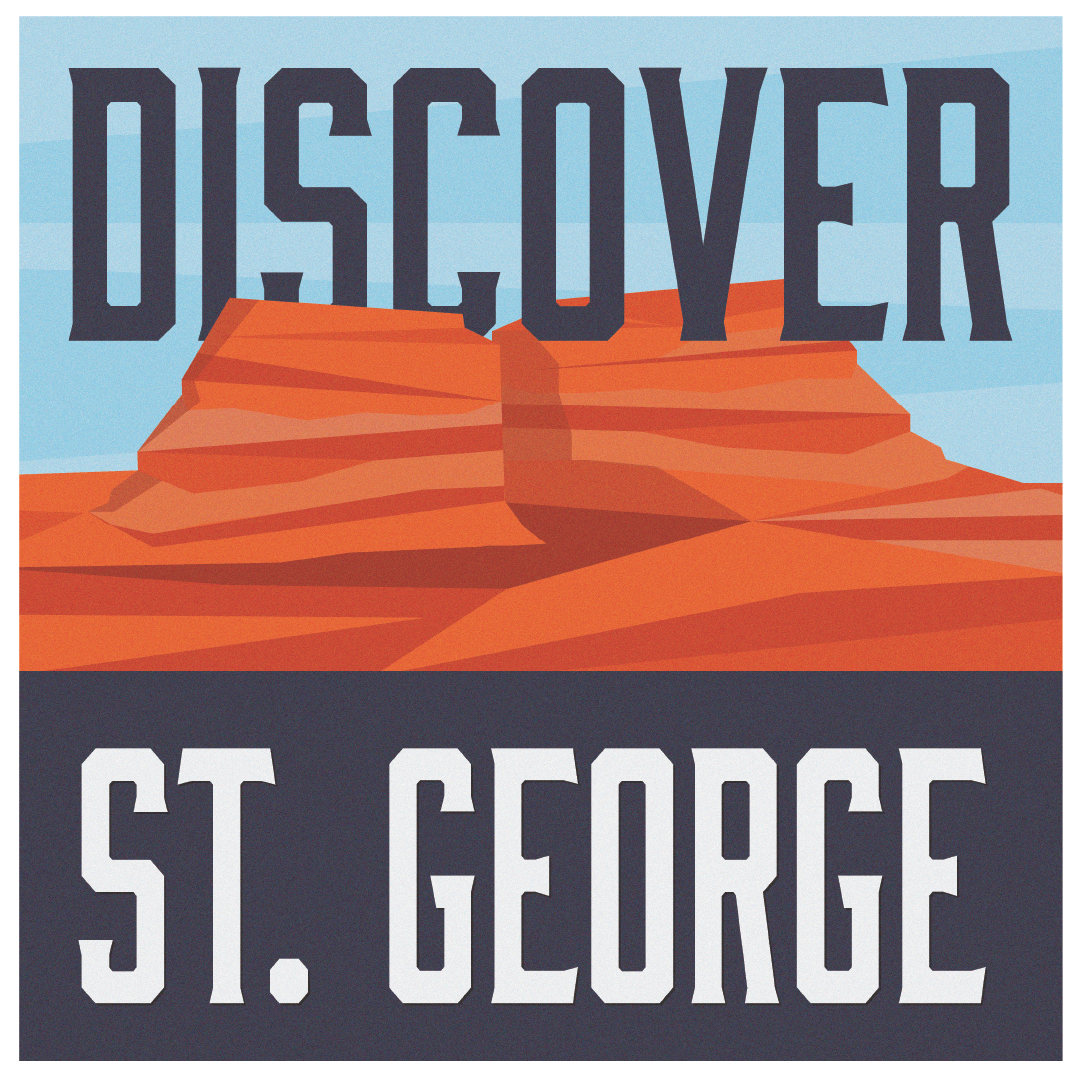
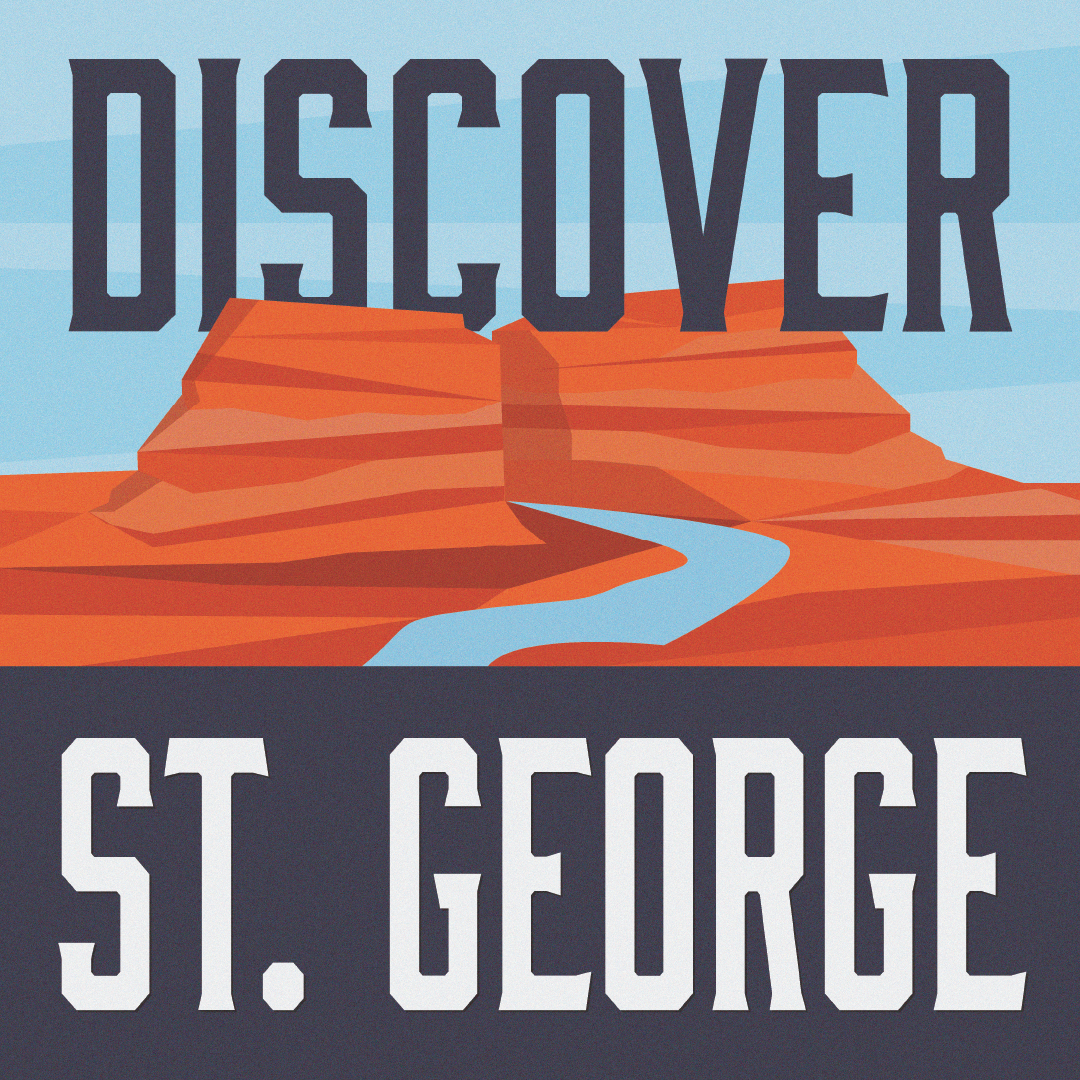
image change

diff --git a/index.html b/index.html
@@ -94,7 +94,7 @@
         </div>
         <div class="projectgrid">
             <div class="mrschip" data-aos="fade-up" data-aos-duration="1000">
-                <a href="st-george.html"><img class="mrschip-image" src="images/redrock3noborder.png" alt="Discover St. George"></a>
+                <a href="st-george.html"><img class="mrschip-image" src="images/redrock3.png" alt="Discover St. George"></a>
                 <div class="project-text">
                     <h1>Discover St. George Campaign</h1>
                 </div>

diff --git a/itinerary.html b/itinerary.html
@@ -56,6 +56,7 @@
                 <img src="images/website5.png" alt="Itinerary Website" loading="lazy">
                 <img src="images/website4.png" alt="Itinerary Website" loading="lazy">
                 <img src="images/website6.png" alt="Itinerary Website" loading="lazy">
+                <h3><a class="page-button" href="index.html#projects">BACK TO PROJECTS</a></h3>
             </div>
         </div>
     </main>
